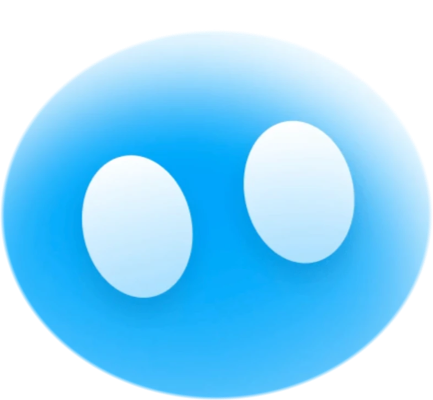
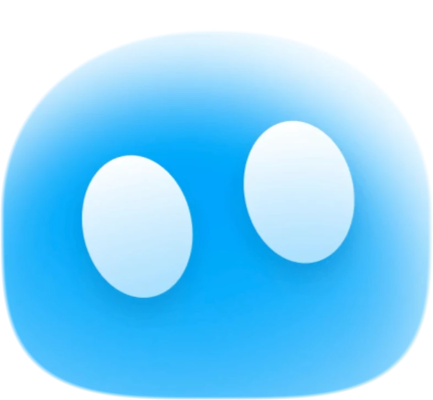
Character outline: mochi shape (dome top, flatter bottom) instead of an oval

diff --git a/Sources/App/Views.swift b/Sources/App/Views.swift
@@ -14,6 +14,25 @@ enum Theme {
 
 /// The icon's character (just the blue body, no sky). At rest the eyes look around now and then:
 /// they hold a gaze for a few seconds, then glide to the next one. `excited`: the eyes hop and glance around.
+/// The character's outline: a dome on top and a flatter, rounded bottom (same curve as tools/make-icons.swift).
+struct Mochi: Shape {
+    func path(in r: CGRect) -> Path {
+        let cy = 0.6
+        var p = Path()
+        for i in 0..<120 {
+            let a = Double(i) / 120 * 2 * .pi
+            let c = cos(a), s = sin(a) // s > 0 is the bottom half
+            let n = s > 0 ? 3.4 : 1.9, ry = s > 0 ? 1 - cy : cy
+            let x = 0.5 + 0.5 * copysign(pow(abs(c), 2 / n), c)
+            let y = cy + ry * copysign(pow(abs(s), 2 / n), s)
+            let pt = CGPoint(x: r.minX + x * r.width, y: r.minY + y * r.height)
+            if i == 0 { p.move(to: pt) } else { p.addLine(to: pt) }
+        }
+        p.closeSubpath()
+        return p
+    }
+}
+
 struct Buddy: View {
     var excited: Bool
     var body: some View {
@@ -22,10 +41,10 @@ struct Buddy: View {
             GeometryReader { g in
                 let w = g.size.width, h = g.size.height
                 ZStack(alignment: .topLeading) {
-                    Ellipse()
+                    Mochi()
                         .fill(RadialGradient(colors: [Theme.core, Theme.core, Theme.sky, Theme.sky.opacity(0.75)],
                                              center: UnitPoint(x: 0.45, y: 0.55), startRadius: 0, endRadius: w * 0.6))
-                        .overlay(Ellipse().stroke(.white.opacity(0.55), lineWidth: max(1, w * 0.035)))
+                        .overlay(Mochi().stroke(.white.opacity(0.55), lineWidth: max(1, w * 0.035)))
                     eye(w, h, t, phase: 0).position(x: w * 0.31, y: h * 0.56)
                     eye(w, h, t, phase: .pi).position(x: w * 0.69, y: h * 0.48)
                 }

diff --git a/tools/make-icons.swift b/tools/make-icons.swift
@@ -53,6 +53,12 @@ for x in 0..<side {
 }
 let feather = max(2, side / 120)
 let bodyCX = 0.55, bodyCY = 0.6, bodyRX = 0.35, bodyRY = 0.3
+/// <1 inside the body outline: an ellipse on top, a squarer superellipse below the middle.
+func mochi(_ x: Double, _ y: Double) -> Double {
+    let nx = abs(x - bodyCX) / bodyRX, ny = abs(y - bodyCY) / bodyRY
+    let n = y < bodyCY ? 2.2 : 3.6
+    return pow(pow(nx, n) + pow(ny, n), 1 / n)
+}
 let top = max(0, (rim.min() ?? 0) - feather)
 let maskCtx = CGContext(data: nil, width: side, height: side, bitsPerComponent: 8, bytesPerRow: side,
                         space: CGColorSpaceCreateDeviceGray(), bitmapInfo: CGImageAlphaInfo.none.rawValue)!
@@ -61,9 +67,8 @@ for x in 0..<side {
     for y in 0..<side { // buffer rows run top to bottom
         let d = y - rim[x] // start just inside the rim so no sky fringe is left
         let a = d <= 0 ? 0.0 : d >= feather * 2 ? 1.0 : Double(d) / Double(feather * 2)
-        // Trim the white glow on the sides and bottom: keep an ellipse around the blue body.
-        let ex = (Double(x) / Double(side) - bodyCX) / bodyRX, ey = (Double(y) / Double(side) - bodyCY) / bodyRY
-        let e = max(0, min(1, (1 - (ex * ex + ey * ey).squareRoot()) / 0.02))
+        // Trim the white glow on the sides and bottom: keep a mochi shape (dome top, flatter bottom) around the body.
+        let e = max(0, min(1, (1 - mochi(Double(x) / Double(side), Double(y) / Double(side))) / 0.02))
         buf[y * side + x] = UInt8(255 * min(a, e))
     }
 }
